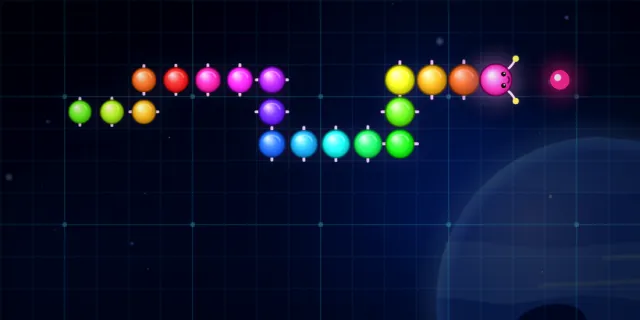
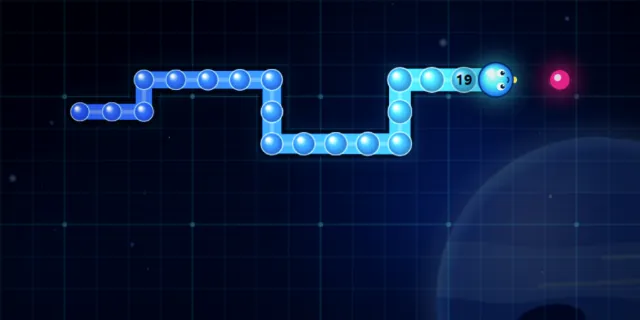
냠냠 뱀: 네온 뱀 꾸미기(구슬 마디·얼굴, 길이 숫자는 목 마디), 첫 화면 카드 그림을 네온 뱀으로
소유자 "플레이어 뱀은 너무 단순", 카드 그림(무지개 애벌레)과 처음 게임 뱀이 달랐음. 시안 나안.
snake-v22, 카드 그림 다시 찍음(tools/thumbs.js 뱀 장면 캐릭터를 neon으로).

Changed region(s): [[0.0938, 0.1562, 0.8125, 0.5], [0.6875, 0.125, 0.7188, 0.1562], [0.0, 0.5312, 0.0312, 0.5625]]

diff --git a/snake/js/render.js b/snake/js/render.js
@@ -689,6 +689,27 @@
     });
   }
 
+  // 네온 뱀 마디 구슬: 머리 0 → 꼬리 1 색을 NEON_STEPS 단계로 미리 그려 둔다
+  const NEON_STEPS = 12;
+  function neonBeadSprite(c, k, col) {
+    const px = Math.round(c);
+    return sprite('neonbead' + px + '_' + k, px, (g, s) => {
+      const q = col(k / (NEON_STEPS - 1)), r = s / 2;
+      const gr = g.createRadialGradient(r * 0.65, r * 0.6, r * 0.08, r, r, r);
+      gr.addColorStop(0, 'rgba(255,255,255,0.95)'); gr.addColorStop(0.38, rgb(q)); gr.addColorStop(1, rgb(mix(q, [8, 18, 60], 0.5)));
+      g.fillStyle = gr; g.beginPath(); g.arc(r, r, r * 0.95, 0, TAU); g.fill();
+      g.strokeStyle = 'rgba(210,250,255,0.75)'; g.lineWidth = Math.max(1, s * 0.05); g.stroke();
+    });
+  }
+  function paintNeonBeads(ctx, pts, c, lk) {
+    const n = pts.length;
+    for (let i = n - 1; i >= 1; i--) {
+      const t = i / Math.max(1, n - 1), r = c * (0.42 - 0.12 * t);
+      const k = Math.round(t * (NEON_STEPS - 1));
+      ctx.drawImage(neonBeadSprite(c, k, lk.col), pts[i].x - r, pts[i].y - r, r * 2, r * 2);
+    }
+  }
+
   // 작은 네 갈래 반짝이
   function sparkle(ctx, x, y, r) {
     ctx.moveTo(x, y - r); ctx.lineTo(x + r * 0.25, y - r * 0.25); ctx.lineTo(x + r, y); ctx.lineTo(x + r * 0.25, y + r * 0.25);
@@ -892,6 +913,7 @@
     else if (lk.body === 'beads') paintBeads(ctx, pts, c, tm, dirs, calm);
     else if (lk.body === 'nebula') paintNebula(ctx, pts, far, c, tm, dirs, calm);
     else paintTube(ctx, pts, far, c, lk, tm, dead);
+    if (lk.head === 'neon' && !dead) paintNeonBeads(ctx, pts, c, lk);
     if (lk.deco === 'dragon' && !dead) paintDragonDeco(ctx, pts, far, c, tm, dirs, calm);
     // 부딪혔다: 모양은 두고 붉게 덮는다 (네온 관은 이미 붉게 그렸다)
     if (dead && lk.body !== 'tube') {
@@ -909,28 +931,36 @@
     else if (d[1] > 0) ctx.rotate(Math.PI / 2);
   }
 
-  // 머리. 네온 뱀은 뿅뿅 우주선 주인공처럼 둥근 몸에 숫자(길이)와 노란 총열
-  function paintHead(ctx, h, d, c, lk, tm, dead, txt, dbl) {
+  // 머리. 네온 뱀은 광택 청록 머리에 눈·웃는 입·노란 코, 길이 숫자는 머리 바로 뒤 첫 마디(neck)에 쓴다
+  function paintHead(ctx, h, d, c, lk, tm, dead, txt, dbl, neck) {
     if (dbl) glow(ctx, 'rgba(255,230,109,0.8)', h.x, h.y, c * 2.2, 0.7);
     glow(ctx, dead ? 'rgba(255,77,109,0.8)' : lk.headGlow, h.x, h.y, c * 1.5, 0.9);
     ctx.lineCap = 'round'; ctx.lineJoin = 'round';
     if (lk.head === 'neon') {
-      ctx.strokeStyle = '#ffe66d';
-      ctx.lineWidth = Math.max(2, c * 0.16);
-      ctx.beginPath();
-      ctx.moveTo(h.x + d[0] * c * 0.25, h.y + d[1] * c * 0.25);
-      ctx.lineTo(h.x + d[0] * c * 0.7, h.y + d[1] * c * 0.7);
-      ctx.stroke();
-      ctx.fillStyle = dead ? '#ff4d6d' : '#5ee7ff';
-      ctx.beginPath(); ctx.arc(h.x, h.y, c * 0.46, 0, TAU); ctx.fill();
-      ctx.fillStyle = 'rgba(255,255,255,0.45)';
-      ctx.beginPath(); ctx.arc(h.x - c * 0.12, h.y - c * 0.14, c * 0.14, 0, TAU); ctx.fill();
-      ctx.fillStyle = '#07080d';
-      ctx.font = '700 ' + Math.round(c * (txt.length > 2 ? 0.44 : 0.58)) + 'px ' + NUM;
-      ctx.textAlign = 'center';
-      ctx.textBaseline = 'middle';
-      ctx.fillText(txt, h.x, h.y + c * 0.04);
-      ctx.textBaseline = 'alphabetic';
+      if (neck) {
+        ctx.fillStyle = '#07080d';
+        ctx.font = '700 ' + Math.round(c * (txt.length > 2 ? 0.34 : 0.44)) + 'px ' + NUM;
+        ctx.textAlign = 'center'; ctx.textBaseline = 'middle';
+        ctx.fillText(txt, neck.x, neck.y + c * 0.03);
+        ctx.textBaseline = 'alphabetic';
+      }
+      ctx.save();
+      faceTo(ctx, h, d);
+      ctx.scale(c, c);
+      ctx.fillStyle = '#ffe66d'; rrect(ctx, 0.36, -0.1, 0.3, 0.2, 0.09); ctx.fill();
+      const g = ctx.createRadialGradient(-0.14, -0.18, 0.04, 0, 0, 0.56);
+      g.addColorStop(0, dead ? '#ffd6dc' : '#e6fdff'); g.addColorStop(0.45, dead ? '#ff4d6d' : '#5ee7ff'); g.addColorStop(1, dead ? '#8a1020' : '#1f5fd0');
+      ctx.fillStyle = g; ctx.beginPath(); ctx.arc(0, 0, 0.54, 0, TAU); ctx.fill();
+      ctx.strokeStyle = 'rgba(6,30,70,0.8)'; ctx.lineWidth = 0.05; ctx.stroke();
+      ctx.fillStyle = 'rgba(255,255,255,0.55)'; ctx.beginPath(); ctx.ellipse(-0.2, -0.26, 0.14, 0.08, -0.5, 0, TAU); ctx.fill();
+      for (const s of [1, -1]) {
+        ctx.fillStyle = '#ffffff'; ctx.beginPath(); ctx.ellipse(0.16, s * 0.21, 0.13, 0.12, 0, 0, TAU); ctx.fill();
+        ctx.fillStyle = '#062036'; ctx.beginPath(); ctx.arc(0.21, s * 0.21, 0.07, 0, TAU); ctx.fill();
+        ctx.fillStyle = '#ffffff'; ctx.beginPath(); ctx.arc(0.235, s * 0.21 - 0.03, 0.025, 0, TAU); ctx.fill();
+      }
+      ctx.strokeStyle = '#06324d'; ctx.lineWidth = 0.045;
+      ctx.beginPath(); ctx.arc(0.3, 0, 0.1, -0.9, 0.9); ctx.stroke();
+      ctx.restore();
       ctx.lineCap = 'butt';
       return;
     }
@@ -1061,7 +1091,7 @@
     }
     paintBody(ctx, pts, far, c * gk, lk, tm, dead, d, v.calm);
     if (ghost) ctx.globalAlpha = 0.45 + (v.calm ? 0 : Math.sin(W.t * 12) * 0.12);
-    paintHead(ctx, pts[0], d, c * gk, lk, tm, dead, String(n), W.eff && W.eff.double > 0);
+    paintHead(ctx, pts[0], d, c * gk, lk, tm, dead, String(n), W.eff && W.eff.double > 0, n > 1 && !far(1) ? pts[1] : null);
     ctx.globalAlpha = 1;
   }
 
@@ -1159,7 +1189,7 @@
     const pts = PREVIEW.map(([x, y]) => ({ x: ox + (x + 0.5) * c, y: oy + (y + 0.5) * c }));
     const lk = lookOf(id), t = tm == null ? 1.3 : tm;
     paintBody(g, pts, () => false, c, lk, t, false, [1, 0], true);
-    paintHead(g, pts[0], [1, 0], c, lk, t, false, String(PREVIEW.length), false);
+    paintHead(g, pts[0], [1, 0], c, lk, t, false, String(PREVIEW.length), false, pts[1]);
   }
 
   // ─── HUD: 위쪽 한 줄. 오른쪽 끝에 점수, 그 왼쪽에 작은 칸들 ─────

diff --git a/tools/thumbs.js b/tools/thumbs.js
@@ -69,7 +69,8 @@ const GAMES = [
     finish: { b: 1.08, c: 1.06, s: 1.12, vig: 0.28 },
   },
   {
-    // 냠냠 뱀: 해왕성 하늘 판 안쪽만 잘라, 무지개 애벌레가 S자로 구불구불 오른쪽 구슬을 향해 간다. 판 테두리는 안 보인다
+    // 냠냠 뱀: 해왕성 하늘 판 안쪽만 잘라, 처음 받는 네온 뱀(얼굴·구슬 마디·목 마디 숫자)이 S자로 구불구불 오른쪽 구슬을 향해 간다. 판 테두리는 안 보인다
+    // (2026-09-29까지는 상점 캐릭터 무지개 애벌레로 찍어 처음 게임 뱀과 달랐다)
     id: 'snake', ns: 'SN', folder: 'snake', vp: [640, 400],
     compose: () => {
       SN.store.set('snake.sky', 7);   // 해왕성 (판 뒤 오른쪽 아래에 파란 행성이 은은하게)
@@ -78,7 +79,7 @@ const GAMES = [
       SN.World.step = () => {};
       const W = SN.debug.world, v = SN.debug.view;
       v.hud = false;
-      W.char = 'bug'; v.char = 'bug';
+      W.char = 'neon'; v.char = 'neon';
       // 자를 칸: 판의 (2, 1) 칸부터 가로 20칸 · 세로 10칸. 아래 좌표는 그 칸 안의 칸 번호.
       // 가장 아래 줄(4)은 가운데 오른쪽에만 (작은 탭에서 왼쪽 제목 뒤로 숨지 않게)
       const o = [2, 1];

diff --git a/snake/sw.js b/snake/sw.js
@@ -1,7 +1,7 @@
 'use strict';
 // 오프라인 실행: 게임 파일을 기기에 저장해 두고 인터넷 없이도 연다.
 // 파일이 바뀌면 VERSION을 올린다. 옛 저장본은 snake- 로 시작하는 것만 지운다 (다른 게임 것은 건드리지 않음).
-const VERSION = 'snake-v21';
+const VERSION = 'snake-v22';
 const FILES = ['./', 'index.html', 'style.css', 'manifest.json', 'icon.svg',
   '../common/profile.js', '../common/hub.js', '../common/worlds.js', '../common/sound.js', 'js/util.js', 'js/data.js', 'js/world.js', 'js/shop.js', 'js/space.js', 'js/render.js', 'js/input.js', 'js/audio.js', 'js/main.js'];
 

diff --git a/HANDOFF.md b/HANDOFF.md
@@ -5,6 +5,7 @@
 
 ## 지금 상태 (2026-09-29)
 
+- **냠냠 뱀 네온 뱀 꾸미기 (2026-09-29, 브랜치, 소유자: "플레이어 뱀은 너무 단순", 카드 그림과 게임 뱀이 다르다는 확인 뒤 1안·길이 숫자 나안)**: 처음 받는 네온 뱀을 꾸밈. 관 위에 마디마다 광택 구슬(`render.js` `paintNeonBeads`, 색 12단계 미리 그림 `neonBeadSprite`), 머리는 광택 청록에 눈·웃는 입·노란 코, 길이 숫자는 머리 안에서 머리 바로 뒤 첫 마디로(`paintHead`의 `neck`, 포털로 떨어진 마디면 안 씀). 부딪히면 구슬 없이 붉은 관·붉은 머리. 다른 네 캐릭터와 라이벌은 그대로. 첫 화면 카드 그림은 예전에 상점 캐릭터 무지개 애벌레(800코인)로 찍어 처음 게임 뱀과 달랐다: `tools/thumbs.js` 뱀 장면을 네온 뱀으로 바꿔 `common/thumbs/snake-*.webp` 다시 찍음. 이 PC에는 Playwright가 없어 설치된 크롬을 CDP로 부리는 임시 대체 모듈로 돌렸고(저장소에 넣지 않음), 수정 전 코드로 다시 찍은 그림이 원래 그림과 눈으로 같은 것을 먼저 확인함. `snake-v22`. 화면 확인: 1280×800·893×533 판(오른쪽·위로 가는 얼굴), 보통 난이도 부딪힘, 시작 화면 캐릭터 카드, 390px 시작 화면, 콘솔 오류 0
 - **저장소 이름 ppgame (2026-09-29, main에 합침, 소유자: "ppyong, 1안으로 진행해" 뒤 "이름을 ppgame 으로 바꾸자")**: 첫 게임 초안 때 붙은 n-gun을 게임 모음 이름 ppgame으로. 새 주소 `https://km-jang.github.io/ppgame/`. 코드는 모두 상대 경로라 고친 곳 없음, 문서(`CLAUDE.md`·`HANDOFF.md`·`README.md`·`android/README.md`)만 바꿈. 기록(localStorage)은 km-jang.github.io 단위라 그대로 이어지고, 홈 화면 설치와 오프라인 저장본만 새 주소에서 다시 한다. 옛 주소는 쓰지 않는다: 처음엔 넘겨 주기 전용 저장소(1안)로 정했으나 태블릿에 옛 주소로 설치한 적이 없어 소유자가 "n-gun 없이 가자"로 바꿈. 소유자가 만들어 둔 빈 공개 저장소 km-jang/n-gun은 비어 있고, 지울지는 소유자가 정한다. 옛 이름 저장소를 만든 때부터 GitHub의 옛 저장소 화면 넘겨 주기(github.com/km-jang/n-gun 에서 ppgame으로)는 끊겼다. 저장 키(`ngun.*` 등)·폴더(`game/`·`snake/`)·저장본 이름(`ngun-` 등)·앱 내부 이름 `io.github.kmjang.ngun`은 그대로
 - **슥슥 우주 다리 선 가늘게·끝 비탈 (2026-09-29, main에 합침, 소유자: "너무 굵어서 걸려 이 문제를 해결해봐" 뒤 1안)**: 선 굵기 14px에서 10px(`PHYS.lineHalf` 5), 선 양 끝에 세모 비탈(`world.js` `rampAt`, 아래 면은 그대로·위 면만 `rampLen` 44px에 걸쳐 두께 0, 막히면 22px·그래도 막히면 없음, 끝이 가파르면(`rampFlat` 가로 성분 0.5 미만) 없음, 잉크 안 듦). 평지에서 땅에 누운 선을 넘는 공의 속도 유지(선 앞 356 대비 선 위 최저): 14px 비탈 없음 47.8%, 10px 비탈 없음 58.7%, 10px 비탈 있음 92.7%. 판 20개 정답 선 20/20, 흔들린 선 231/240(수정 전과 같음). 화면: 굳은 선 빛 번짐 선 굵기+10px(예전 +14), 그리는 중 분필 26·16·9·3.5px(예전 34·22·12·4.5), 비탈도 같은 층 색으로 그림(`rampPoints`). 시험 2개(`lipKeep` 비탈 있음 85% 초과·없음 70% 미만, 구슬·가파른 끝에 비탈 없음·땅 속 안 들어감). 보조 에이전트 검토에서 정확성 문제 없음. 첫 화면 카드 그림(`common/thumbs/bridge-*.webp`)은 예전 굵은 선 그대로(`node tools/thumbs.js bridge`는 Playwright가 있어야 함). `bridge-v2`
 - **슥슥 우주 다리 1단계 (2026-09-29, 브랜치, 소유자: "1단계 진행해 이름은 그대로 플랑크로")**: 다섯 번째 게임 `bridge/`(이름공간 `BR`). 손가락으로 그린 선이 그 모양 그대로 물건이 되어 떨어지고 구르고, 그 선으로 공(데굴이)을 외계인 친구에게 데려다준다. 물리는 Planck.js 1.5.0(MIT, `bridge/lib/`, 고지 `lib/LICENSE.md`), 1/60초 고정 간격. 달 10판·화성 10판(화성은 달 5판 깨면), 시소·스프링·상자·얼음·바위. 잉크를 아끼면 별(정답 선의 1.45배 이하 3개, 2.2배 이하 2개), 떨어지면 저절로 처음부터(지는 화면 없음), 공이 두 번 떨어지면 힌트 전구가 반짝, 처음 판(달 1·달 8·화성 2)에 점선 + 손가락 안내. 캐릭터 3(데굴이·해님이 250·딸기 젤리 400)·펜 4(파란·분홍 150·황금 250·무지개 500), 모양만 다름. 미션 10·메달 14, 저장 `bridge.shop1`·`bridge.rec1`. 놀이 본부: 게임 목록·오늘의 미션 4가지·스티커 5장(34장)·기록실(별 수). 첫 화면 카드 다섯(위 3장·아래 2장, 카드 그림 `common/thumbs/bridge-*.webp`). 판마다 테스트가 정답 선으로 풀리는지·흔들린 선 12개 중 8개 이상·선 없이는 안 풀리는지 확인. 판 짜는 요령은 `bridge/PLAN.md` 5절. `bridge-v1`, 공통 파일(`hub.js`·`sound.js`)이 바뀌어 `ngun-v21`·`snake-v21`·`jump-v17`·`runner-v14`. 실기기에서 선 굵기·손가락 느낌·잉크 양, 5살이 첫 판을 혼자 깨는지 볼 것
@@ -56,7 +57,7 @@
 - 테스트: 규칙 113(뿅뿅 우주선) + 86(냠냠 뱀) + 92(통통 점프) + 86(슝슝 우주 달리기) + 27(슥슥 우주 다리, 상점 포함) + 상점 22(뱀)·20(점프) + 본부 15 + 도감 4 + 소리 14 + 프로필 24, 화면 흐름 76. 보류 폴더: 로봇카 30 · 놀이터 17 · 화면 흐름 23
 - 참고 게임 5가지·진짜 소리는 PR #7로 main에 합침
 - 기록 지키기(`robocar/js/save.js`, `robocar/PLAN.md` 7.13): 예비 사본 두 겹 자동 복구, 보호자 화면 → 놀이 기록 탭에서 파일·코드로 내보내기/불러오기, 개인 기록(코스별 최고 별 등)
-- 오프라인 저장 버전(지금): N-GUN `ngun-v21`, N-SNAKE `snake-v21`, 통통 점프 `jump-v17`, 슝슝 우주 달리기 `runner-v14`, 슥슥 우주 다리 `bridge-v2` (보류 로봇카 `robocar-v14`)
+- 오프라인 저장 버전(지금): N-GUN `ngun-v21`, N-SNAKE `snake-v22`, 통통 점프 `jump-v17`, 슝슝 우주 달리기 `runner-v14`, 슥슥 우주 다리 `bridge-v2` (보류 로봇카 `robocar-v14`)
 - N-SNAKE: 무한·스테이지 두 모드, 콤보·아이템·포털, 기록·메달, 아이용 쉬움 모드, 손가락 밀기만(조이스틱 없앰, PR #10으로 main에 합침), 위험 표시(빨간 줄무늬 벽·앞길 경고) (`snake/PLAN.md` 3.1~3.2)
 - N-GUN: 점검(버그 7개 수정), 콤보, 기록 장부, 메달 18개 (`game/PLAN.md` 5.9), 보스 다섯 가지 모습과 보스별 공격 (5.4.2), 기체 6종·코인·상점·미션·떨어지는 아이템 (5.10, 저장 키 `ngun.shop1`)
 - N-GUN 필살기 N-버스트 (`game/PLAN.md` 5.4.1), 총열 카드 가중치 6 (2에서 올림)

diff --git a/CLAUDE.md b/CLAUDE.md
@@ -250,7 +250,7 @@ PC의 통합 작업 지침은 클라우드 세션(claude.ai/code)에서 열 수 
    글은 짧게 + 목소리로 읽어 주기. 외부 링크·데이터 수집·결제 금지. 하루 타이머와 보호자 자물쇠(3초 누르기)를 우회하는 기능 금지.
 5. **유아틱하지 않게.** 소유자 피드백(2026-09-24)으로 둥근 손글씨체·두꺼운 검정 테두리·파스텔 단색·왕눈이를 버렸다.
    광택 재질·굵은 디스플레이 서체(Black Han Sans)·어두운 유리 패널 방향을 유지한다 (`archive/robocar/VISUAL.md`).
-6. **게임 파일을 바꾸면 그 게임의 `sw.js` `VERSION`을 올린다** (N-GUN `ngun-v21` → `v22`, N-SNAKE `snake-v21` → `v22`, 통통 점프 `jump-v17` → `v18`, 슝슝 우주 달리기 `runner-v14` → `v15`, 슥슥 우주 다리 `bridge-v2` → `v3` …, 보류 중인 로봇카 `robocar-v14`). `common/`의 파일을 바꾸면 다섯 게임 모두 올린다.
+6. **게임 파일을 바꾸면 그 게임의 `sw.js` `VERSION`을 올린다** (N-GUN `ngun-v21` → `v22`, N-SNAKE `snake-v22` → `v23`, 통통 점프 `jump-v17` → `v18`, 슝슝 우주 달리기 `runner-v14` → `v15`, 슥슥 우주 다리 `bridge-v2` → `v3` …, 보류 중인 로봇카 `robocar-v14`). `common/`의 파일을 바꾸면 다섯 게임 모두 올린다.
    안 올리면 홈 화면에 설치한 태블릿이 옛 파일을 계속 연다. 새 파일을 추가하면 `FILES` 목록에도 넣는다.
    게임들은 같은 주소(도메인)를 쓰므로 옛 저장본을 지울 때는 **자기 이름으로 시작하는 것만** 지운다 (`robocar-`, `ngun-`, `snake-`, `jump-`, `runner-`, `bridge-`).
    다른 게임 것까지 지우면 그 게임이 인터넷 없이 안 열린다.

diff --git a/snake/PLAN.md b/snake/PLAN.md
@@ -106,7 +106,7 @@
 
 | 캐릭터 | 모양 | 특기 (`traits`) | 값 |
 |---|---|---|---|
-| 네온 뱀 (`neon`) | 매끈한 청록 네온 관, 둥근 머리에 길이 숫자와 노란 총열 (처음 뱀 그대로) | 느긋해요: 속도 6% 천천히 (`speedMul` 0.94) | 무료 |
+| 네온 뱀 (`neon`) | 청록에서 파랑으로 이어지는 네온 관 위에 마디마다 광택 구슬(미리 그린 12단계 색 `neonBeadSprite`), 광택 청록 머리에 눈·웃는 입·노란 코, 길이 숫자는 머리 바로 뒤 첫 마디에 (2026-09-29 소유자 "플레이어 뱀은 너무 단순" 뒤 시안 나안. 예전에는 둥근 머리 안에 숫자와 노란 총열) | 느긋해요: 속도 6% 천천히 (`speedMul` 0.94) | 무료 |
 | 로봇 뱀 (`robot`) | 전선으로 이은 은빛 쇠 마디(가운데 청록 불빛·나사 번갈아), 둥근 네모 투구에 청록 눈 가리개와 안테나 | 아이템이 25% 더 자주 (`itemMul` 0.75) | 300 |
 | 꼬마 용 (`dragon`) | 주황에서 빨강으로 가는 몸에 비늘 줄·옆 가시, 머리 뒤 날개 한 쌍(천천히 파닥), 뒤로 휜 뿔 두 개, 꼬리 끝 불꽃 | 콤보 시간 +1.2초 (`comboPlus`) | 500 |
 | 무지개 애벌레 (`bug`) | 동글동글 광택 구슬 마디(색이 천천히 흐름)에 짧은 다리, 둥근 분홍 머리에 노란 구슬 더듬이 | 황금 구슬 시간 +3초 (`goldPlus`) | 800 |
